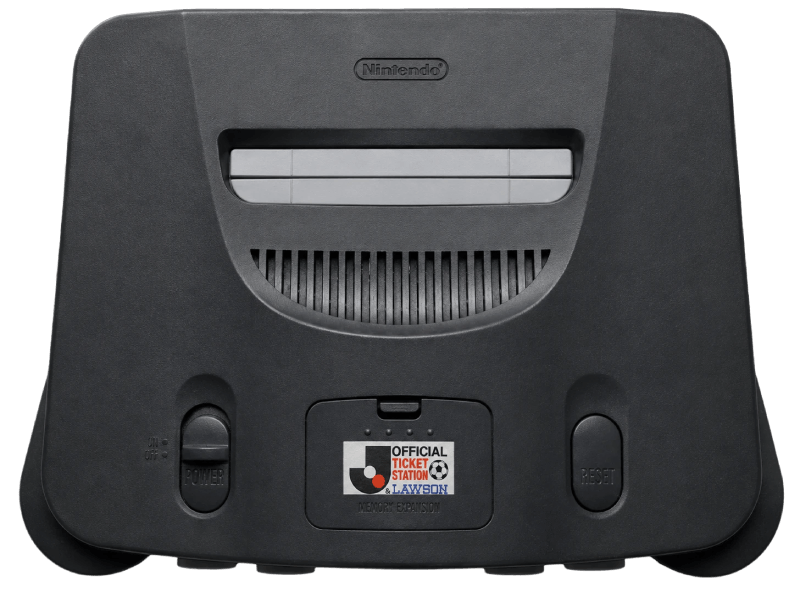
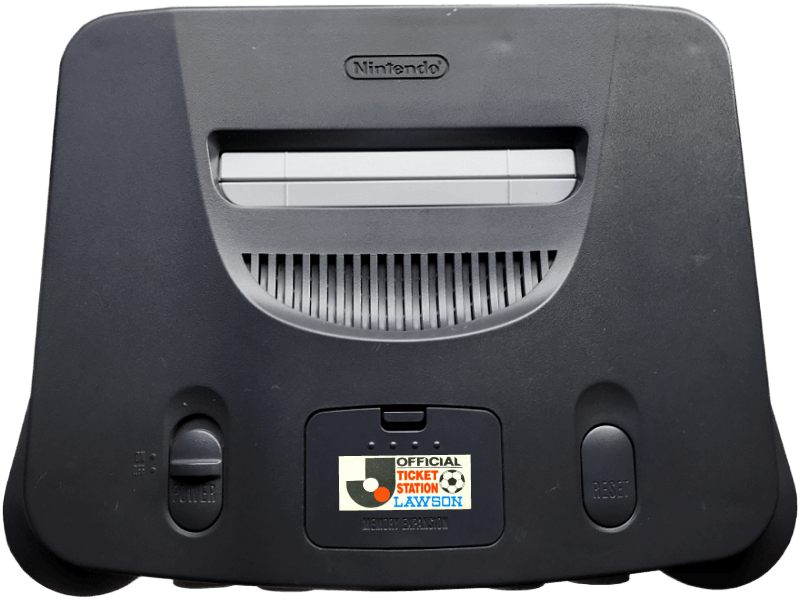
Update
Updated Lawson Station console art
Updated article typos.

diff --git a/Blog/Roundup/2026/NOVFEATURES.html b/Blog/Roundup/2026/NOVFEATURES.html
@@ -19,7 +19,7 @@
 		<h2><span class="badge tech"><i class="fa-solid fa-pen-to-square"></i></span> <span class="title">Vasalius Kickstarter</span></h2>
 		<h5 class="subtitle">A New N64 Game by John Roo ~ Nov 5, 2026</h5>
 		<div class="bgBanner" style="background-color: rgb(71, 30, 76);border: 1px solid black;"><img decoding='async' role='presentation' loading='lazy' src="Blog/Features/2026/VasaliusKS/0.png" alt="VHE" class="center"/></div>
-		<p>A human-built RPG-slash-FPS is on it's way to the N64!</p>
+		<p>A human-built RPG-slash-FPS is on its way to the N64!</p>
 		<span class="alignright">
 		<a title="𝗥𝗘𝗔𝗗 𝗔𝗥𝗧𝗜𝗖𝗟𝗘" class="btn" onclick="$(function(){$('#content-placeholder').load('Blog/Features/2026/VasaliusKS/b439.html');}); gototop();">MORE <i class="fa-solid fa-chevron-right"></i></a>
 		</span>

diff --git a/postLinks.html b/postLinks.html
@@ -54,7 +54,7 @@
 		<h2><span class="badge tech"><i class="fa-solid fa-pen-to-square"></i></span> <span class="title">Vasalius Kickstarter</span></h2>
 		<h5 class="subtitle">A New N64 Game by John Roo ~ Nov 5, 2026</h5>
 		<div class="bgBanner" style="background-color: rgb(71, 30, 76);border: 1px solid black;"><img decoding='async' role='presentation' loading='lazy' src="Blog/Features/2026/VasaliusKS/0.png" alt="VHE" class="center"/></div>
-		<p>A human-built RPG-slash-FPS is on it's way to the N64!</p>
+		<p>A human-built RPG-slash-FPS is on its way to the N64!</p>
 		<span class="alignright">
 		<a title="𝗥𝗘𝗔𝗗 𝗔𝗥𝗧𝗜𝗖𝗟𝗘" class="btn" onclick="$(function(){$('#content-placeholder').load('Blog/Features/2026/VasaliusKS/b439.html');}); gototop();">MORE <i class="fa-solid fa-chevron-right"></i></a>
 		</span>
